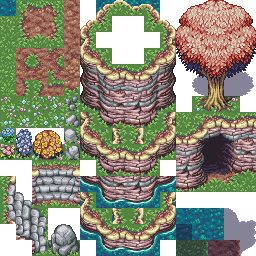
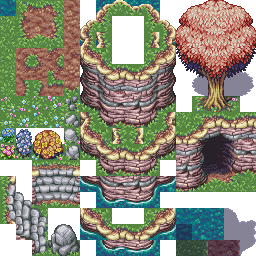
feat: Complete grass auto tile set

diff --git a/src/map.rs b/src/map.rs
@@ -36,6 +36,30 @@ impl Default for GrassBitMask {
                     vec![grid_to_index(6, 0)],
                 ),
                 (
+                    BITMASK_LEFT | BITMASK_BOT_LEFT | BITMASK_BOT,
+                    BITMASK_TOP | BITMASK_RIGHT,
+                    vec![grid_to_index(9, 0)],
+                ),
+                (
+                    BITMASK_TOP | BITMASK_TOP_RIGHT | BITMASK_RIGHT,
+                    BITMASK_BOT | BITMASK_LEFT,
+                    vec![grid_to_index(6, 14)],
+                ),
+                (
+                    BITMASK_TOP | BITMASK_TOP_LEFT | BITMASK_LEFT,
+                    BITMASK_BOT | BITMASK_RIGHT,
+                    vec![grid_to_index(9, 14)],
+                ),
+                (
+                    BITMASK_TOP
+                        | BITMASK_TOP_RIGHT
+                        | BITMASK_RIGHT
+                        | BITMASK_BOT_RIGHT
+                        | BITMASK_BOT,
+                    BITMASK_LEFT,
+                    vec![grid_to_index(5, 2), grid_to_index(6, 2)],
+                ),
+                (
                     BITMASK_LEFT
                         | BITMASK_BOT_LEFT
                         | BITMASK_BOT
@@ -45,9 +69,38 @@ impl Default for GrassBitMask {
                     vec![grid_to_index(7, 0), grid_to_index(8, 0)],
                 ),
                 (
-                    BITMASK_LEFT | BITMASK_BOT_LEFT | BITMASK_BOT,
-                    BITMASK_TOP | BITMASK_RIGHT,
-                    vec![grid_to_index(9, 0)],
+                    BITMASK_LEFT
+                        | BITMASK_TOP_LEFT
+                        | BITMASK_TOP
+                        | BITMASK_TOP_RIGHT
+                        | BITMASK_RIGHT,
+                    BITMASK_BOT,
+                    vec![grid_to_index(7, 14), grid_to_index(8, 14)],
+                ),
+                (
+                    BITMASK_TOP | BITMASK_TOP_LEFT | BITMASK_LEFT | BITMASK_BOT_LEFT | BITMASK_BOT,
+                    BITMASK_RIGHT,
+                    vec![grid_to_index(9, 2), grid_to_index(10, 2)],
+                ),
+                (
+                    !BITMASK_TOP_LEFT,
+                    BITMASK_TOP_LEFT,
+                    vec![grid_to_index(6, 1)],
+                ),
+                (
+                    !BITMASK_TOP_RIGHT,
+                    BITMASK_TOP_RIGHT,
+                    vec![grid_to_index(9, 1)],
+                ),
+                (
+                    !BITMASK_BOT_RIGHT,
+                    BITMASK_BOT_RIGHT,
+                    vec![grid_to_index(9, 3)],
+                ),
+                (
+                    !BITMASK_BOT_LEFT,
+                    BITMASK_BOT_LEFT,
+                    vec![grid_to_index(6, 3)],
                 ),
             ],
         }

diff --git a/src/main.rs b/src/main.rs
@@ -156,9 +156,7 @@ fn camera_movement(
             ortho.scale -= 0.1;
         }
 
-        if ortho.scale < 0.5 {
-            ortho.scale = 0.5;
-        }
+        ortho.scale = ortho.scale.max(0.3);
 
         let z = transform.translation.z;
         transform.translation += time.delta_seconds() * direction.normalize_or_zero() * 500.;
